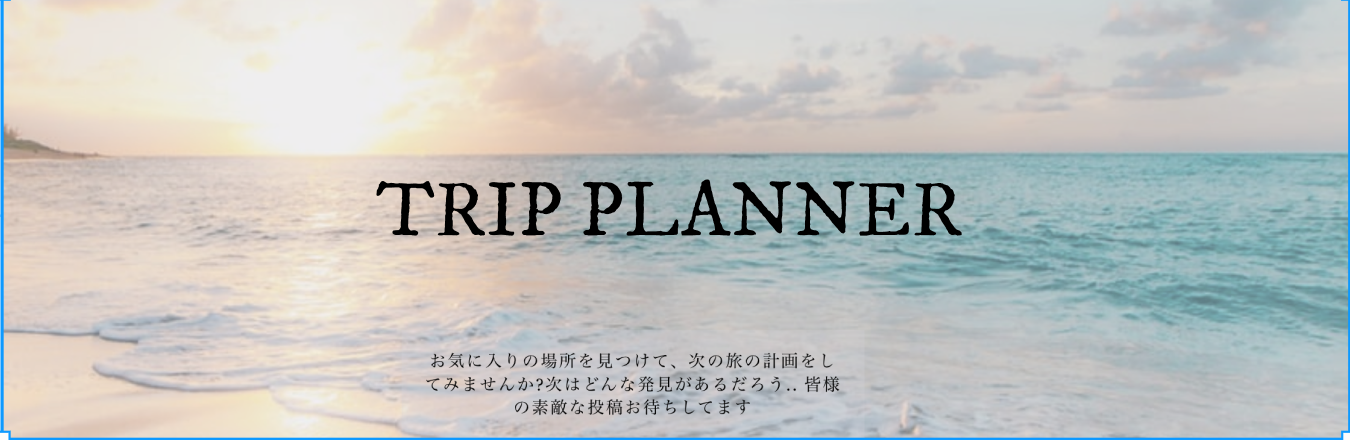
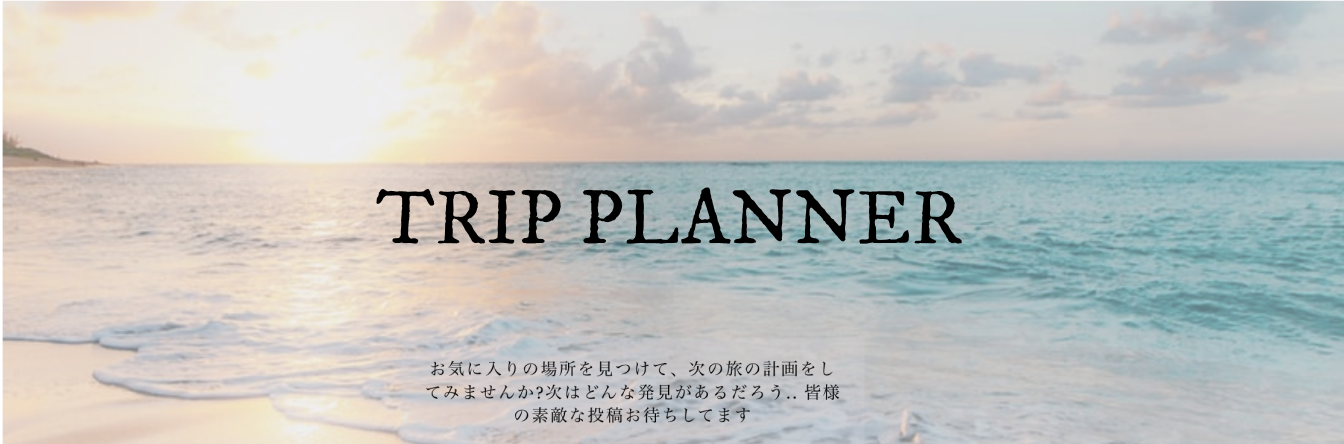
Add: OGP修正

diff --git a/app/helpers/application_helper.rb b/app/helpers/application_helper.rb
@@ -6,12 +6,12 @@ module ApplicationHelper
   def default_meta_tags
     {
       title: 'TripPlanner',
-      description: '旅行先の思い出をシェアして、次に行きたい観光地を探せるサービスです',
+      description: '旅行先の思い出をシェアして、コロナ収束後に行きたい観光地を探せるサービスです',
       keywords: '旅行、海外旅行、旅行計画',
       charset: 'UTF-8',
       og: {
         title: 'TripPlanner',
-        description: 'TripPlanner',
+        description: '旅行先の思い出をシェアして、コロナ収束後に行きたい観光地を探せるサービスです',
         type: 'website',
         url: [request.original_url],
         image: asset_url('ogp_default.png'),
